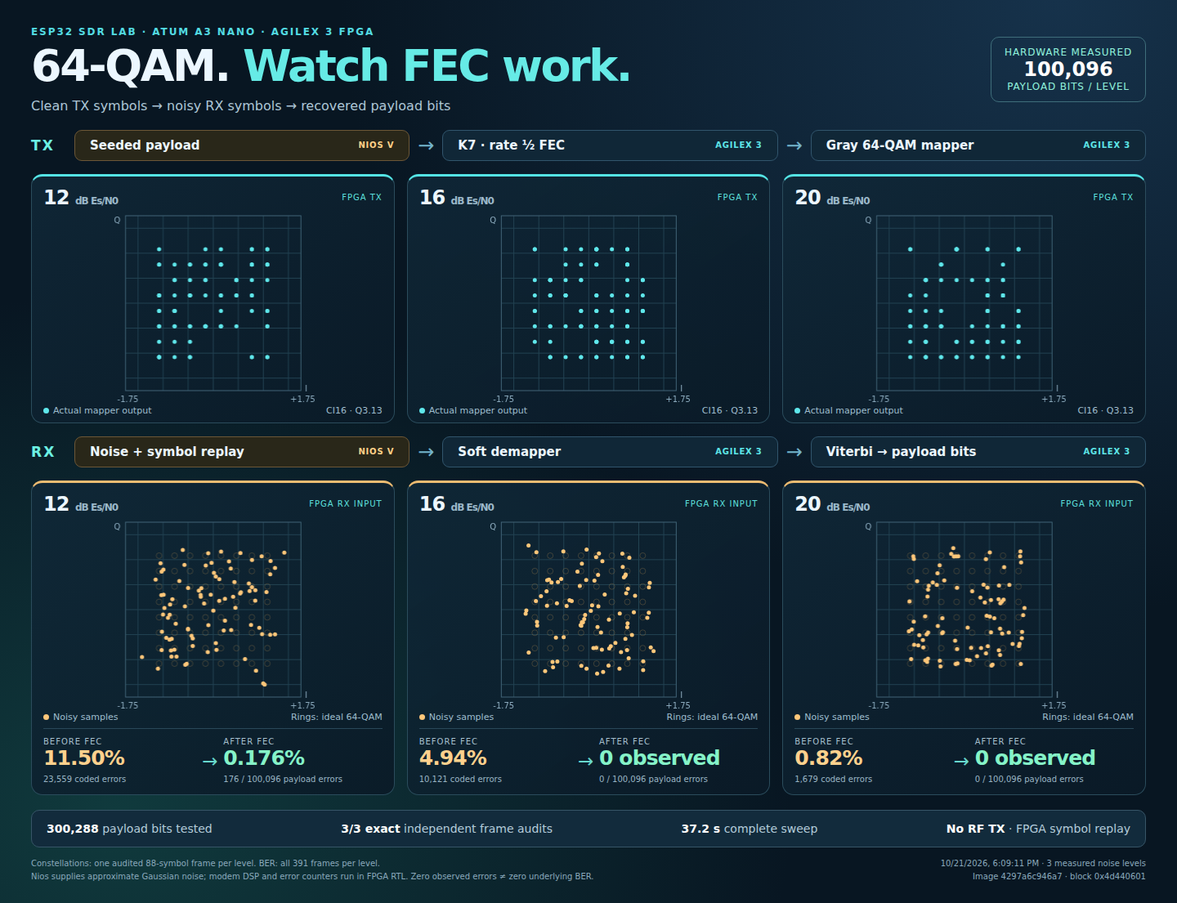
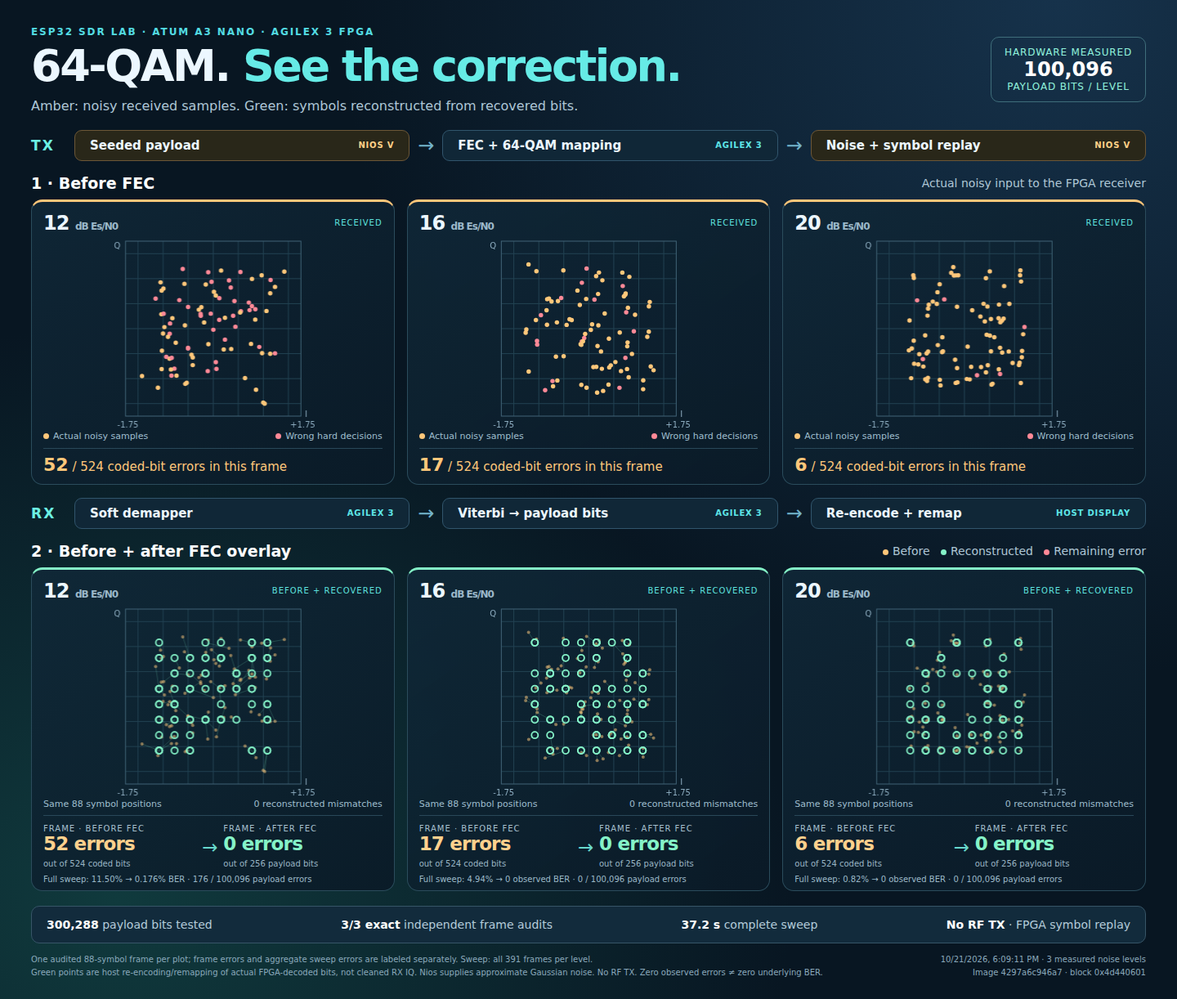
Show paired before and after FEC overlays from FPGA decoded bits

diff --git a/esp32_agilex3_iq/cyberether/qam64_poster.html b/esp32_agilex3_iq/cyberether/qam64_poster.html
@@ -1,23 +1,44 @@
-<!doctype html><html lang="en"><meta charset="utf-8"><meta name="viewport" content="width=device-width,initial-scale=1"><title>64-QAM · FPGA TX / RX</title>
+<!doctype html><html lang="en"><meta charset="utf-8"><meta name="viewport" content="width=device-width,initial-scale=1"><title>64-QAM · Before and after FEC</title>
 <style>
 :root{color-scheme:dark}*{box-sizing:border-box}body{margin:0;background:#050d16;color:#ecf7ff;font-family:Inter,system-ui,sans-serif}nav{max-width:1440px;margin:12px auto;display:flex;gap:20px;align-items:center;padding:0 24px;font-size:13px;color:#91aaba}a{color:#63e9ea;text-decoration:none}#poster{max-width:1440px;min-width:920px;margin:auto;padding:32px 38px 24px;background:radial-gradient(ellipse at 90% 0%,#16324b 0,transparent 48%),radial-gradient(ellipse at 10% 90%,#103a3d 0,transparent 45%),#081622}.heading{display:flex;justify-content:space-between;align-items:center;gap:24px;margin-bottom:20px}.eyebrow{color:#53dce3;letter-spacing:.16em;font-size:12px;font-weight:800}h1{font-size:clamp(32px,3.8vw,54px);letter-spacing:-.045em;line-height:1.05;margin:7px 0}h1 span{color:#66ebe6}.headline{color:#adc6d6;font-size:16px;margin-top:10px}.badge{padding:11px 16px;border:1px solid #3f6e7b;border-radius:10px;text-align:center;color:#90f2dc;white-space:nowrap;font-size:12px;letter-spacing:.07em}.badge b{display:block;color:white;font-size:24px;letter-spacing:0}.pipeline{display:flex;align-items:center;gap:10px;margin:16px 0}.tag{font-size:17px;letter-spacing:.12em;color:#6cf0e3;font-weight:900;min-width:43px}.block{border:1px solid #31556c;border-radius:9px;background:#102737;padding:9px 18px;min-width:0;flex:1;display:flex;align-items:center;justify-content:space-between;gap:10px;font-weight:700;font-size:15px}.block small{font-size:10px;letter-spacing:.08em;color:#5ee6e7;white-space:nowrap}.block.nios{border-color:#6c5737;background:#292719}.block.nios small{color:#ffd188}.arrow{font-size:24px;color:#72b3ca}.grid{display:grid;grid-template-columns:repeat(3,minmax(0,1fr));gap:15px}.card{background:linear-gradient(145deg,#102838dd,#0a1a27e8);border:1px solid #2b4c5c;border-radius:14px;overflow:hidden;padding:12px 14px 8px}.card.rx{border-top:3px solid #eebc72}.card.tx{border-top:3px solid #54e4e5}.cardhead{display:flex;justify-content:space-between;align-items:center}.cardhead b{font-size:24px;letter-spacing:-.04em}.cardhead span{color:#9bb8c9;font-size:12px}.cardhead em{font-style:normal;font-size:10px;letter-spacing:.1em;color:#5de0de}.plot{display:block;width:100%;height:240px}.legend{font-size:11px;color:#9ebdcd;display:flex;justify-content:space-between;gap:8px}.ber{display:grid;grid-template-columns:1fr 26px 1fr;align-items:center;border-top:1px solid #294859;padding:10px 0 3px;margin-top:7px}.ber label{font-size:10px;letter-spacing:.1em;color:#a5bfcd;display:block}.ber strong{font-size:25px;color:#ffd18d;letter-spacing:-.035em;display:block}.ber .after strong{color:#85f3c8}.ber small{font-size:10px;color:#99b5c4}.ber .transition{color:#68d9cd;font-size:23px}.summary{display:flex;justify-content:space-between;align-items:center;gap:12px;margin-top:18px;padding:14px 18px;border:1px solid #375567;background:#122b3c;border-radius:10px;font-size:14px;color:#b4ccda}.summary b{color:#fff}.source{font-size:10px;color:#8aa9bc;margin-top:12px;display:flex;justify-content:space-between;gap:15px;line-height:1.6}.key{display:inline-block;width:7px;height:7px;border-radius:50%;background:#5fe7eb;margin-right:5px}.key.gold{background:#ffc77a}.error{padding:20px;color:#ffadac}.pending{opacity:.4}@media(max-width:1100px){#poster{padding:24px}.block{font-size:12px;padding:8px 10px}.plot{height:225px}.headline{font-size:14px}.badge b{font-size:20px}.ber strong{font-size:21px}}
+.rowtitle{display:flex;justify-content:space-between;align-items:center;margin:15px 0 9px;font-size:14px;color:#afc7d6}.rowtitle b{font-size:19px;color:#fff}.framecount{font-size:15px;color:#ffc77a;padding:7px 0 3px;border-top:1px solid #294859;margin-top:8px}.framecount b{font-size:22px}.correction{color:#85f3c8}.countnote{font-size:10px;color:#9bb9c8;margin-top:3px}.key.green{background:#85f3c8}.key.red{background:#ff8997}nav label{white-space:nowrap}nav input{accent-color:#85f3c8}.ber strong{font-size:23px}.card.tx{border-top-color:#ffc77a}.card.rx{border-top-color:#85f3c8}
 </style>
-<nav><a href="/">← Interactive BER lab</a><a href="/poster.png" download="Agilex3_64QAM_TX_RX.png">Download measured example PNG</a><span id="status">Loading measured FPGA data…</span></nav>
-<main id="poster"><div class="heading"><div><div class="eyebrow">ESP32 SDR LAB · ATUM A3 NANO · AGILEX 3 FPGA</div><h1>64-QAM. <span>Watch FEC work.</span></h1><div class="headline">Clean TX symbols → noisy RX symbols → recovered payload bits</div></div><div class="badge">HARDWARE MEASURED<b id="bitBadge">100k+</b>PAYLOAD BITS / LEVEL</div></div>
-<div class="pipeline" aria-label="TX pipeline"><div class="tag">TX</div><div class="block nios">Seeded payload <small>NIOS V</small></div><div class="arrow">→</div><div class="block">K7 · rate ½ FEC <small>AGILEX 3</small></div><div class="arrow">→</div><div class="block">Gray 64-QAM mapper <small>AGILEX 3</small></div></div>
-<section class="grid" id="txGrid" aria-label="TX constellation row"></section>
-<div class="pipeline" aria-label="RX pipeline"><div class="tag">RX</div><div class="block nios">Noise + symbol replay <small>NIOS V</small></div><div class="arrow">→</div><div class="block">Soft demapper <small>AGILEX 3</small></div><div class="arrow">→</div><div class="block">Viterbi → payload bits <small>AGILEX 3</small></div></div>
-<section class="grid" id="rxGrid" aria-label="RX constellation row"></section>
+<nav><a href="/">← Interactive BER lab</a><a href="/poster.png" download="Agilex3_64QAM_TX_RX.png">Download measured example PNG</a><label><input type="checkbox" id="paths" checked> Correction paths</label><span id="status">Loading measured FPGA data…</span></nav>
+<main id="poster"><div class="heading"><div><div class="eyebrow">ESP32 SDR LAB · ATUM A3 NANO · AGILEX 3 FPGA</div><h1>64-QAM. <span>See the correction.</span></h1><div class="headline">Amber: noisy received samples. Green: symbols reconstructed from recovered bits.</div></div><div class="badge">HARDWARE MEASURED<b id="bitBadge">100k+</b>PAYLOAD BITS / LEVEL</div></div>
+<div class="pipeline" aria-label="TX pipeline"><div class="tag">TX</div><div class="block nios">Seeded payload <small>NIOS V</small></div><div class="arrow">→</div><div class="block">FEC + 64-QAM mapping <small>AGILEX 3</small></div><div class="arrow">→</div><div class="block nios">Noise + symbol replay <small>NIOS V</small></div></div>
+<div class="rowtitle"><b>1 · Before FEC</b><span>Actual noisy input to the FPGA receiver</span></div>
+<section class="grid" id="txGrid" aria-label="Before FEC constellation row"></section>
+<div class="pipeline" aria-label="RX pipeline"><div class="tag">RX</div><div class="block">Soft demapper <small>AGILEX 3</small></div><div class="arrow">→</div><div class="block">Viterbi → payload bits <small>AGILEX 3</small></div><div class="arrow">→</div><div class="block">Re-encode + remap <small>HOST DISPLAY</small></div></div>
+<div class="rowtitle"><b>2 · Before + after FEC overlay</b><span><i class="key gold"></i>Before &nbsp; <i class="key green"></i>Reconstructed &nbsp; <i class="key red"></i>Remaining error</span></div>
+<section class="grid" id="rxGrid" aria-label="Before after FEC overlay row"></section>
 <div class="summary"><span><b id="totalBits">—</b> payload bits tested</span><span><b id="audit">—</b> independent frame audits</span><span><b id="wall">—</b> complete sweep</span><span><b>No RF TX</b> · FPGA symbol replay</span></div>
-<div class="source"><span>Constellations: one audited 88-symbol frame per level. BER: all <span id="frames">391</span> frames per level.<br>Nios supplies approximate Gaussian noise; modem DSP and error counters run in FPGA RTL. Zero observed errors ≠ zero underlying BER.</span><span id="proofId" style="text-align:right">Waiting for a completed FPGA measurement.</span></div>
+<div class="source"><span>One audited 88-symbol frame per plot; frame errors and aggregate sweep errors are labeled separately. Sweep: all <span id="frames">391</span> frames per level.<br>Green points are host re-encoding/remapping of actual FPGA-decoded bits, not cleaned RX IQ. Nios supplies approximate Gaussian noise. No RF TX. Zero observed errors ≠ zero underlying BER.</span><span id="proofId" style="text-align:right">Waiting for a completed FPGA measurement.</span></div>
 </main>
 <script>
 const $=id=>document.getElementById(id);let shown=null;
-function draw(id,points,ideal,limit,color){const c=$(id),r=c.getBoundingClientRect(),d=devicePixelRatio||1;c.width=r.width*d;c.height=r.height*d;const x=c.getContext('2d');x.scale(d,d);const side=Math.min(r.width-38,r.height-26),left=(r.width-side)/2,top=8,X=v=>left+(v/limit+1)*side/2,Y=v=>top+(1-v/limit)*side/2;x.lineWidth=1;x.strokeStyle='#234353';for(let v=-1.5;v<=1.5;v+=.5){if(Math.abs(v)>limit)continue;x.beginPath();x.moveTo(X(v),top);x.lineTo(X(v),top+side);x.moveTo(left,Y(v));x.lineTo(left+side,Y(v));x.stroke()}x.strokeStyle='#426578';x.strokeRect(left,top,side,side);x.fillStyle='#8baabd';x.font='10px system-ui';x.fillText('Q',left-14,top+9);x.fillText('I',left+side+5,top+side+1);x.fillText('-'+limit,left-10,top+side+14);x.fillText('+'+limit,left+side-13,top+side+14);x.strokeStyle='#ad885350';for(const p of ideal){x.beginPath();x.arc(X(p[0]),Y(p[1]),3.5,0,Math.PI*2);x.stroke()}x.fillStyle=color;for(const p of points){x.beginPath();x.arc(X(p[0]),Y(p[1]),2.5,0,Math.PI*2);x.fill()}}
-function render(p){if(p.status!=='PASS'||p.rf_transmitted||!p.rows?.length||p.rows.some(r=>!r.snapshot_audit?.all_fields_exact))throw Error('A completed, audited FPGA sweep is required');shown=p;const rows=p.rows.slice(0,3),minBits=Math.min(...rows.map(r=>r.payload_bits));const limit=Math.ceil(Math.max(1.25,...rows.flatMap(r=>r.snapshot_audit.plots.noisy_xy.flat().map(Math.abs)))*4)/4;const ideal=[];for(let i=-7;i<=7;i+=2)for(let q=-7;q<=7;q+=2)ideal.push([i/Math.sqrt(42),q/Math.sqrt(42)]);
-$('txGrid').innerHTML=rows.map((r,i)=>`<article class="card tx"><div class="cardhead"><b>${r.esn0_db} <span>dB Es/N0</span></b><em>FPGA TX</em></div><canvas id="tx${i}" class="plot" aria-label="TX constellation at ${r.esn0_db} dB"></canvas><div class="legend"><span><i class="key"></i>Actual mapper output</span><span>CI16 · Q3.13</span></div></article>`).join('');
-$('rxGrid').innerHTML=rows.map((r,i)=>`<article class="card rx"><div class="cardhead"><b>${r.esn0_db} <span>dB Es/N0</span></b><em>FPGA RX INPUT</em></div><canvas id="rx${i}" class="plot" aria-label="RX constellation at ${r.esn0_db} dB"></canvas><div class="legend"><span><i class="key gold"></i>Noisy samples</span><span>Rings: ideal 64-QAM</span></div><div class="ber"><div><label>BEFORE FEC</label><strong>${(100*r.pre_fec_ber).toFixed(2)}%</strong><small>${r.raw_errors.toLocaleString()} coded errors</small></div><div class="transition">→</div><div class="after"><label>AFTER FEC</label><strong>${r.decoded_errors?(100*r.post_fec_ber).toFixed(3)+'%':'0 observed'}</strong><small>${r.decoded_errors.toLocaleString()} / ${r.payload_bits.toLocaleString()} payload errors</small></div></div></article>`).join('');
-rows.forEach((r,i)=>{draw('tx'+i,r.snapshot_audit.plots.mapped_xy,[],limit,'#5fe7eb');draw('rx'+i,r.snapshot_audit.plots.noisy_xy,ideal,limit,'#ffc77a')});$('bitBadge').textContent=minBits.toLocaleString();$('totalBits').textContent=rows.reduce((n,r)=>n+r.payload_bits,0).toLocaleString();$('audit').textContent=rows.length+'/'+rows.length+' exact';$('wall').textContent=p.wall_seconds.toFixed(1)+' s';$('frames').textContent=rows.map(r=>r.frames).every(n=>n===rows[0].frames)?rows[0].frames:'recorded';$('proofId').textContent=`${new Date(p.started_at*1000).toLocaleString()} · ${p.rows.length} measured noise levels\nImage ${p.image.sha256.slice(0,12)} · block ${p.block_id}`;$('proofId').style.whiteSpace='pre-line';document.body.dataset.ready='true';}
+function draw(id,e,limit,overlay=false){
+ const c=$(id),r=c.getBoundingClientRect(),d=devicePixelRatio||1;c.width=r.width*d;c.height=r.height*d;
+ const x=c.getContext('2d');x.scale(d,d);
+ const side=Math.min(r.width-38,r.height-26),left=(r.width-side)/2,top=8,X=v=>left+(v/limit+1)*side/2,Y=v=>top+(1-v/limit)*side/2;
+ x.lineWidth=1;x.strokeStyle='#234353';
+ for(let v=-1.5;v<=1.5;v+=.5){if(Math.abs(v)>limit)continue;x.beginPath();x.moveTo(X(v),top);x.lineTo(X(v),top+side);x.moveTo(left,Y(v));x.lineTo(left+side,Y(v));x.stroke()}
+ x.strokeStyle='#426578';x.strokeRect(left,top,side,side);x.fillStyle='#8baabd';x.font='10px system-ui';x.fillText('Q',left-14,top+9);x.fillText('I',left+side+5,top+side+1);x.fillText('-'+limit,left-10,top+side+14);x.fillText('+'+limit,left+side-13,top+side+14);
+ if(overlay&&$('paths').checked){x.strokeStyle='#85f3c835';e.before_xy.forEach((p,i)=>{const a=e.after_xy[i];x.beginPath();x.moveTo(X(p[0]),Y(p[1]));x.lineTo(X(a[0]),Y(a[1]));x.stroke()})}
+ e.before_xy.forEach((p,i)=>{x.fillStyle=!overlay&&e.before_wrong[i]?'#ff8997':overlay?'#ffc77a85':'#ffc77a';x.beginPath();x.arc(X(p[0]),Y(p[1]),overlay?2:2.7,0,Math.PI*2);x.fill()});
+ if(overlay)e.after_xy.forEach((p,i)=>{const a=X(p[0]),b=Y(p[1]);x.strokeStyle=e.after_wrong[i]?'#ff8997':'#85f3c8';x.lineWidth=1.8;x.beginPath();if(e.after_wrong[i]){x.moveTo(a-4,b-4);x.lineTo(a+4,b+4);x.moveTo(a-4,b+4);x.lineTo(a+4,b-4)}else x.arc(a,b,4,0,Math.PI*2);x.stroke()});
+}
+function render(p){
+ if(p.status!=='PASS'||p.rf_transmitted||!p.rows?.length||p.rows.some(r=>!r.snapshot_audit?.all_fields_exact))throw Error('A completed, audited FPGA sweep is required');
+ if(p.rows.some(r=>!r.snapshot_audit.plots.correction_overlay))throw Error(p.overlay_error||'Actual decoded bits are required for the overlay');
+ shown=p;const rows=p.rows.slice(0,3),minBits=Math.min(...rows.map(r=>r.payload_bits));
+ const limit=Math.ceil(Math.max(1.25,...rows.flatMap(r=>r.snapshot_audit.plots.noisy_xy.flat().map(Math.abs)))*4)/4;
+ $('txGrid').innerHTML=rows.map((r,i)=>{const e=r.snapshot_audit.plots.correction_overlay;return `<article class="card tx"><div class="cardhead"><b>${r.esn0_db} <span>dB Es/N0</span></b><em>RECEIVED</em></div><canvas id="tx${i}" class="plot" aria-label="Before FEC constellation at ${r.esn0_db} dB"></canvas><div class="legend"><span><i class="key gold"></i>Actual noisy samples</span><span><i class="key red"></i>Wrong hard decisions</span></div><div class="framecount"><b>${e.raw_bit_errors}</b> / ${e.coded_bits} coded-bit errors in this frame</div></article>`}).join('');
+ $('rxGrid').innerHTML=rows.map((r,i)=>{const e=r.snapshot_audit.plots.correction_overlay;return `<article class="card rx"><div class="cardhead"><b>${r.esn0_db} <span>dB Es/N0</span></b><em>BEFORE + RECOVERED</em></div><canvas id="rx${i}" class="plot" aria-label="Before after FEC overlay at ${r.esn0_db} dB"></canvas><div class="legend"><span>Same ${e.symbols} symbol positions</span><span>${e.wrong_reconstructed_symbols} reconstructed mismatches</span></div><div class="ber"><div><label>FRAME · BEFORE FEC</label><strong>${e.raw_bit_errors} errors</strong><small>out of ${e.coded_bits} coded bits</small></div><div class="transition">→</div><div class="after"><label>FRAME · AFTER FEC</label><strong>${e.payload_bit_errors} errors</strong><small>out of ${e.payload_bits} payload bits</small></div></div><div class="countnote">Full sweep: ${(r.pre_fec_ber*100).toFixed(2)}% → ${r.decoded_errors?(r.post_fec_ber*100).toFixed(3)+'%':'0 observed'} BER · ${r.decoded_errors.toLocaleString()} / ${r.payload_bits.toLocaleString()} payload errors</div></article>`}).join('');
+ rows.forEach((r,i)=>{const e=r.snapshot_audit.plots.correction_overlay;draw('tx'+i,e,limit);draw('rx'+i,e,limit,true)});
+ $('bitBadge').textContent=minBits.toLocaleString();$('totalBits').textContent=rows.reduce((n,r)=>n+r.payload_bits,0).toLocaleString();$('audit').textContent=rows.length+'/'+rows.length+' exact';$('wall').textContent=p.wall_seconds.toFixed(1)+' s';$('frames').textContent=rows.map(r=>r.frames).every(n=>n===rows[0].frames)?rows[0].frames:'recorded';$('proofId').textContent=`${new Date(p.started_at*1000).toLocaleString()} · ${p.rows.length} measured noise levels\nImage ${p.image.sha256.slice(0,12)} · block ${p.block_id}`;$('proofId').style.whiteSpace='pre-line';document.body.dataset.ready='true';
+}
+$('paths').onchange=()=>{if(shown)render(shown)};
+
 async function refresh(){try{const response=await fetch('/api/state');if(!response.ok)throw Error('HTTP '+response.status);const s=await response.json();if(s.proof?.status==='PASS'){if(!shown||s.proof.started_at!==shown.started_at)render(s.proof);$('status').textContent='Measured FPGA results · read-only view'}else{$('status').textContent=s.job.busy?(shown?'Sweep running · showing previous completed result':'Sweep running · waiting for a completed result'):'Run a sweep in the interactive lab first.'}}catch(e){$('status').textContent='Data unavailable: '+e.message}}
 window.addEventListener('resize',()=>{if(shown)render(shown)});refresh();setInterval(refresh,5000);
 </script></html>

diff --git a/esp32_agilex3_iq/cyberether/qam64_sweep.py b/esp32_agilex3_iq/cyberether/qam64_sweep.py
@@ -63,6 +63,54 @@ def read_snapshot(owner):
     return dict(tx=iq(words[0]), rx=iq(words[1]), bits=unpack_bits(words[2],256),
                 decoded=unpack_bits(words[3],256), coded=unpack_bits(words[4],524), llr=llr)
 
+def correction_overlay(actual):
+    """Reconstruct the same coded-symbol sequence from real decoded payload.
+
+    Display-only host re-encoding/remapping, never a cleaned received waveform.
+    Wrong decoded bits must remain visible as wrong reconstructed symbols.
+    """
+    payload, decoded = np.asarray(actual['bits']), np.asarray(actual['decoded'])
+    if payload.shape != (256,) or decoded.shape != payload.shape or not np.isin(payload,[0,1]).all() or not np.isin(decoded,[0,1]).all():
+        raise ValueError('Overlay requires the actual 256-bit payload and FPGA decoded bits')
+    coded = conv_encode(decoded)
+    padded = np.pad(coded,(0,(-len(coded))%6))
+    labels = padded.reshape(-1,6) @ (1 << np.arange(5,-1,-1))
+    restored = quantized_mapping('64QAM')[labels]
+    if np.asarray(actual['tx']).shape != restored.shape or np.asarray(actual['rx']).shape != restored.shape:
+        raise ValueError('Overlay must pair the same 88 symbol positions')
+    raw_wrong = (np.asarray(actual['llr'])<0) != np.asarray(actual['coded'])
+    if raw_wrong.shape != (524,):raise ValueError('Overlay requires 524 coded decisions')
+    before_wrong = np.pad(raw_wrong,(0,4)).reshape(-1,6).any(axis=1)
+    after_wrong = (restored != actual['tx']).any(axis=1)
+    xy = lambda a:(np.asarray(a,dtype=float)/8192).tolist()
+    return dict(before_xy=xy(actual['rx']),after_xy=xy(restored),reference_xy=xy(actual['tx']),
+                before_wrong=before_wrong.tolist(),after_wrong=after_wrong.tolist(),
+                raw_bit_errors=int(raw_wrong.sum()),coded_bits=524,
+                payload_bit_errors=int(np.count_nonzero(decoded!=payload)),payload_bits=256,
+                wrong_reconstructed_symbols=int(after_wrong.sum()),symbols=len(restored),
+                origin='Host display re-encodes and remaps actual FPGA-decoded payload bits',
+                received_waveform_changed=False)
+
+
+def attach_correction_overlays(proof, output):
+    """Enrich older saved proofs from their audited physical snapshot files."""
+    from pathlib import Path
+    if proof.get('status')!='PASS':return proof
+    for row in proof['rows']:
+        audit=row['snapshot_audit'];plots=audit['plots']
+        if plots.get('correction_overlay'):continue
+        path=Path(output)/('esn0-'+format(row['esn0_db'],'g')+'-last-frame.npz')
+        with np.load(path,allow_pickle=False) as data:actual={k:data[k] for k in data.files}
+        # Recheck the existing snapshot before using its decoded bits for display.
+        checked=audit_snapshot(actual,audit['seed'],row['sigma_q313'],audit['frames_in_chunk'])
+        if checked['raw_errors']!=audit['raw_errors'] or checked['payload_errors']!=audit['payload_errors']:
+            raise RuntimeError('Saved correction snapshot disagrees with recorded FPGA audit')
+        np.testing.assert_array_equal(plots['mapped_xy'],checked['plots']['mapped_xy'])
+        np.testing.assert_array_equal(plots['noisy_xy'],checked['plots']['noisy_xy'])
+        plots['correction_overlay']=checked['plots']['correction_overlay']
+    return proof
+
+
 def audit_snapshot(actual, seed, sigma, frames):
     expected = replay_reference(seed, sigma, frames)
     for name in ('bits','coded','tx','rx'):
@@ -81,7 +129,7 @@ def audit_snapshot(actual, seed, sigma, frames):
                 measured_snapshot_esn0_db=10*math.log10(signal_energy/noise_energy) if noise_energy else None,
                 raw_errors=int(np.count_nonzero((llr<0)!=actual['coded'])),
                 payload_errors=int(np.count_nonzero(decoded!=actual['bits'])),
-                plots=dict(mapped_xy=xy(actual['tx']), noisy_xy=xy(actual['rx']),
+                plots=dict(correction_overlay=correction_overlay(actual), mapped_xy=xy(actual['tx']), noisy_xy=xy(actual['rx']),
                            post_fec=fec_payload_plot(actual['bits'], actual['decoded'], '64QAM')))
 
 def summarize(rows):

diff --git a/esp32_agilex3_iq/cyberether/qam64_lab.py b/esp32_agilex3_iq/cyberether/qam64_lab.py
@@ -11,7 +11,7 @@ class Manager:
     def __init__(self,root=ROOT):
         self.root=Path(root);self.lock=threading.Lock();self.child=None;self.closed=False
         self.pointer=self.root/'cyberether/run/qam64-latest.json'
-        self.job=dict(busy=False,status='idle')
+        self.job=dict(busy=False,status='idle');self.overlay_cache=None
         try:self.output=Path(json.loads(self.pointer.read_text())['output'])
         except (OSError,ValueError,KeyError):self.output=None
     def state(self):
@@ -21,6 +21,16 @@ class Manager:
         if out:
             try:proof=json.loads((out/'proof.json').read_text())
             except (OSError,ValueError):pass
+        if proof and proof.get('status')=='PASS':
+            try:
+                key=(str(out),(out/'proof.json').stat().st_mtime_ns,
+                     tuple(p.stat().st_mtime_ns for p in sorted(out.glob('*-last-frame.npz'))))
+                if self.overlay_cache and self.overlay_cache[0]==key:proof=self.overlay_cache[1]
+                else:
+                    from qam64_sweep import attach_correction_overlays
+                    proof=attach_correction_overlays(proof,out);self.overlay_cache=(key,proof)
+            except (OSError,ValueError,KeyError,AssertionError,RuntimeError) as exc:
+                proof['overlay_error']='Saved correction evidence unavailable: '+str(exc)
         try:cp=require_modem_checkpoint(self.root);ready=True;reason='Checkpoint 06 build manifest matches selected image; actual block ID checked on Run.'
         except RuntimeError as exc:cp=None;ready=False;reason=str(exc)
         return dict(job=job,proof=proof,ready=ready,reason=reason,current_image=cp)

diff --git a/esp32_agilex3_iq/cyberether/tests/test_qam64_sweep.py b/esp32_agilex3_iq/cyberether/tests/test_qam64_sweep.py
@@ -42,6 +42,22 @@ int main(void){
         with self.assertRaises(AssertionError):q.audit_snapshot(broken,407,918,2)
         with self.assertRaises(AssertionError):q.audit_snapshot(a,408,918,2)
 
+    def test_overlay_reconstructs_matching_symbol_positions_and_keeps_errors(self):
+        r=q.replay_reference(407,918,1)
+        llr=fixedpoint_soft_demapper(r['rx'],'64QAM')[:524]
+        a=dict(bits=r['bits'],decoded=r['bits'].copy(),coded=r['coded'],tx=r['tx'],rx=r['rx'],llr=llr)
+        overlay=q.correction_overlay(a)
+        np.testing.assert_array_equal(overlay['after_xy'],r['tx'].astype(float)/8192)
+        self.assertEqual(overlay['wrong_reconstructed_symbols'],0)
+        self.assertEqual(len(overlay['after_xy']),88)
+        self.assertFalse(overlay['received_waveform_changed'])
+        a['decoded'][50]^=1
+        damaged=q.correction_overlay(a)
+        self.assertEqual(damaged['payload_bit_errors'],1)
+        self.assertGreater(damaged['wrong_reconstructed_symbols'],0)
+        self.assertTrue(any(damaged['after_wrong']))
+        np.testing.assert_array_equal(damaged['before_xy'],overlay['before_xy'])
+
     def test_zero_noise_and_prng_bounds(self):
         r=q.replay_reference(1,0,1);np.testing.assert_array_equal(r['tx'],r['rx'])
         for args in ((0,1,1),(1,-1,1),(1,8193,1),(1,1,33)):

diff --git a/esp32_agilex3_iq/scripts/make_notebooks.py b/esp32_agilex3_iq/scripts/make_notebooks.py
@@ -835,7 +835,7 @@ The physical Agilex 3 sweep tested 100,096 payload bits per noise level. At 12 d
 
 ![FPGA 64-QAM constellation and BER](screenshots/08_fpga_64qam_ber.png)
 
-For the compact TX/RX presentation, open `/poster` on the same port (for example `http://HOST_IP:8773/poster`). It shows all three measured levels in six panels, with pipeline blocks and before/after-FEC BER. This page is read-only and starts no acquisition. Its download link provides the saved example PNG.
+For the compact TX/RX presentation, open `/poster` on the same port (for example `http://HOST_IP:8773/poster`). It shows noisy received samples above before/after-FEC overlays at all three measured levels. Green rings reconstruct the same coded symbols from actual FPGA-decoded bits, using host display-only re-encoding/remapping; received IQ is not denoised. Frame error counts and full-sweep BER are kept separate. This page is read-only and starts no acquisition. Its download link provides the saved example PNG.
 
 ![FPGA 64-QAM TX/RX social layout](screenshots/08_fpga_64qam_social.png)
 """))

diff --git a/esp32_agilex3_iq/docs/FPGA_64QAM_BER.md b/esp32_agilex3_iq/docs/FPGA_64QAM_BER.md
@@ -150,10 +150,10 @@ Build, reference and physical-board verification are also recorded in
 ## Social / presentation layout
 
 Open `/poster` on the same port (for example `http://HOST_IP:8773/poster`).
-The read-only 2×3 layout shows TX mapper constellations above noisy RX inputs
-for 12, 16 and 20 dB. Separate TX/RX diagrams identify Nios replay and the
-FPGA encoder, mapper, demapper and Viterbi blocks. Every RX panel includes its
-aggregate pre-/post-FEC result. All six plots use the same scale and equal
+The read-only 2×3 layout shows noisy received samples above before/after-FEC
+overlays for 12, 16 and 20 dB. Separate TX/RX diagrams identify Nios replay,
+the FPGA encoder/mapper/demapper/Viterbi, and the host display reconstruction.
+Each lower panel shows frame error counts alongside the full-sweep result. All six plots use the same scale and equal
 I/Q aspect ratio. The page uses actual audited FPGA snapshots, never a
 new acquisition or TX command.
 
@@ -165,3 +165,26 @@ measurement. The supplied PNG is 1440 pixels wide and can be used directly
 in a social post.
 
 ![FPGA TX/RX six-panel example](../notebooks/screenshots/08_fpga_64qam_social.png)
+
+### What the before/after overlay means
+
+Amber dots are the actual noisy symbols presented to the FPGA receiver.
+Green rings reconstruct the **same 88 coded-symbol positions** by re-encoding
+and remapping the actual FPGA-decoded payload bits. This display-only step
+runs on the host; the FPGA still performs the real soft demapping and Viterbi.
+Faint paths pair corresponding positions. They are a comparison aid, not a
+claim that FEC moves or denoises the received IQ samples. Toggle **Correction
+paths** to hide them.
+
+Red points in the upper row mark symbol groups with wrong hard-decision bits.
+Red crosses in the overlay mark reconstructed symbols that still differ from
+the known TX sequence. Incorrect decoded bits remain incorrect; this view
+does not simply snap every sample to a convenient ideal point. A regression
+test flips a decoded payload bit and verifies that red mismatches remain.
+
+The displayed frames contain 52, 17 and 6 coded errors respectively, with
+zero payload errors after FPGA decoding. These are single-frame counts
+(524 coded bits and 256 payload bits). The 100k-bit sweep still includes
+176 payload errors at 12 dB. Old saved proofs are enriched from their NPZ
+snapshots after repeating the exact reference audit; completed results are
+cached. Opening the overlay never starts a hardware action.

diff --git a/esp32_agilex3_iq/VALIDATION.md b/esp32_agilex3_iq/VALIDATION.md
@@ -677,3 +677,16 @@ same FPGA image. `qam64-browser-hardware.json` records actual button/selector
 checks. See [the guide](docs/FPGA_64QAM_BER.md) for formats, plots and limits.
 The 95% zero-error bit bound assumes independent trials and is educational;
 convolutional decoder errors may be bursty. No RF BER claim follows.
+
+
+The presentation view now overlays actual noisy input with coded symbols
+reconstructed from the actual FPGA-decoded payload (host display re-encoding/
+remapping). All 88 positions are paired. Existing saved NPZ snapshots are
+re-audited before enriching older JSON proofs. This does not replace measured
+IQ with ideal points or claim that the received waveform was cleaned.
+
+All 238 tests pass, including a deliberate decoded-bit error that must leave
+wrong reconstructed symbols visible. Browser checks verify all three frame
+error counts, six plots, path toggling, 1080/1500-pixel layouts and absence of
+JavaScript errors or POST/hardware requests. No firmware/FPGA changes or new
+RF/replay jobs were needed; the saved physical sweep supplies the evidence.

diff --git a/esp32_agilex3_iq/README.md b/esp32_agilex3_iq/README.md
@@ -304,4 +304,4 @@ then run `python scripts/start_qam64_lab.py start` (port 8773). This needs no
 ESP32 changes and transmits no RF. Notebook08 includes optional launch and
 hardware sweep cells. Noise is explicitly labeled approximate Gaussian.
 
-The same server offers a compact [TX/RX presentation layout](docs/FPGA_64QAM_BER.md#social--presentation-layout) at `/poster`: a 2×3 constellation grid with FPGA pipeline diagrams and pre-/post-FEC results. A measured example PNG is included for social posts. This view never starts hardware.
+The same server offers a compact [TX/RX presentation layout](docs/FPGA_64QAM_BER.md#social--presentation-layout) at `/poster`: a 2×3 before/after-FEC constellation layout with paired overlays, FPGA pipeline diagrams and frame/sweep error counts. A measured example PNG is included for social posts. This view never starts hardware.
